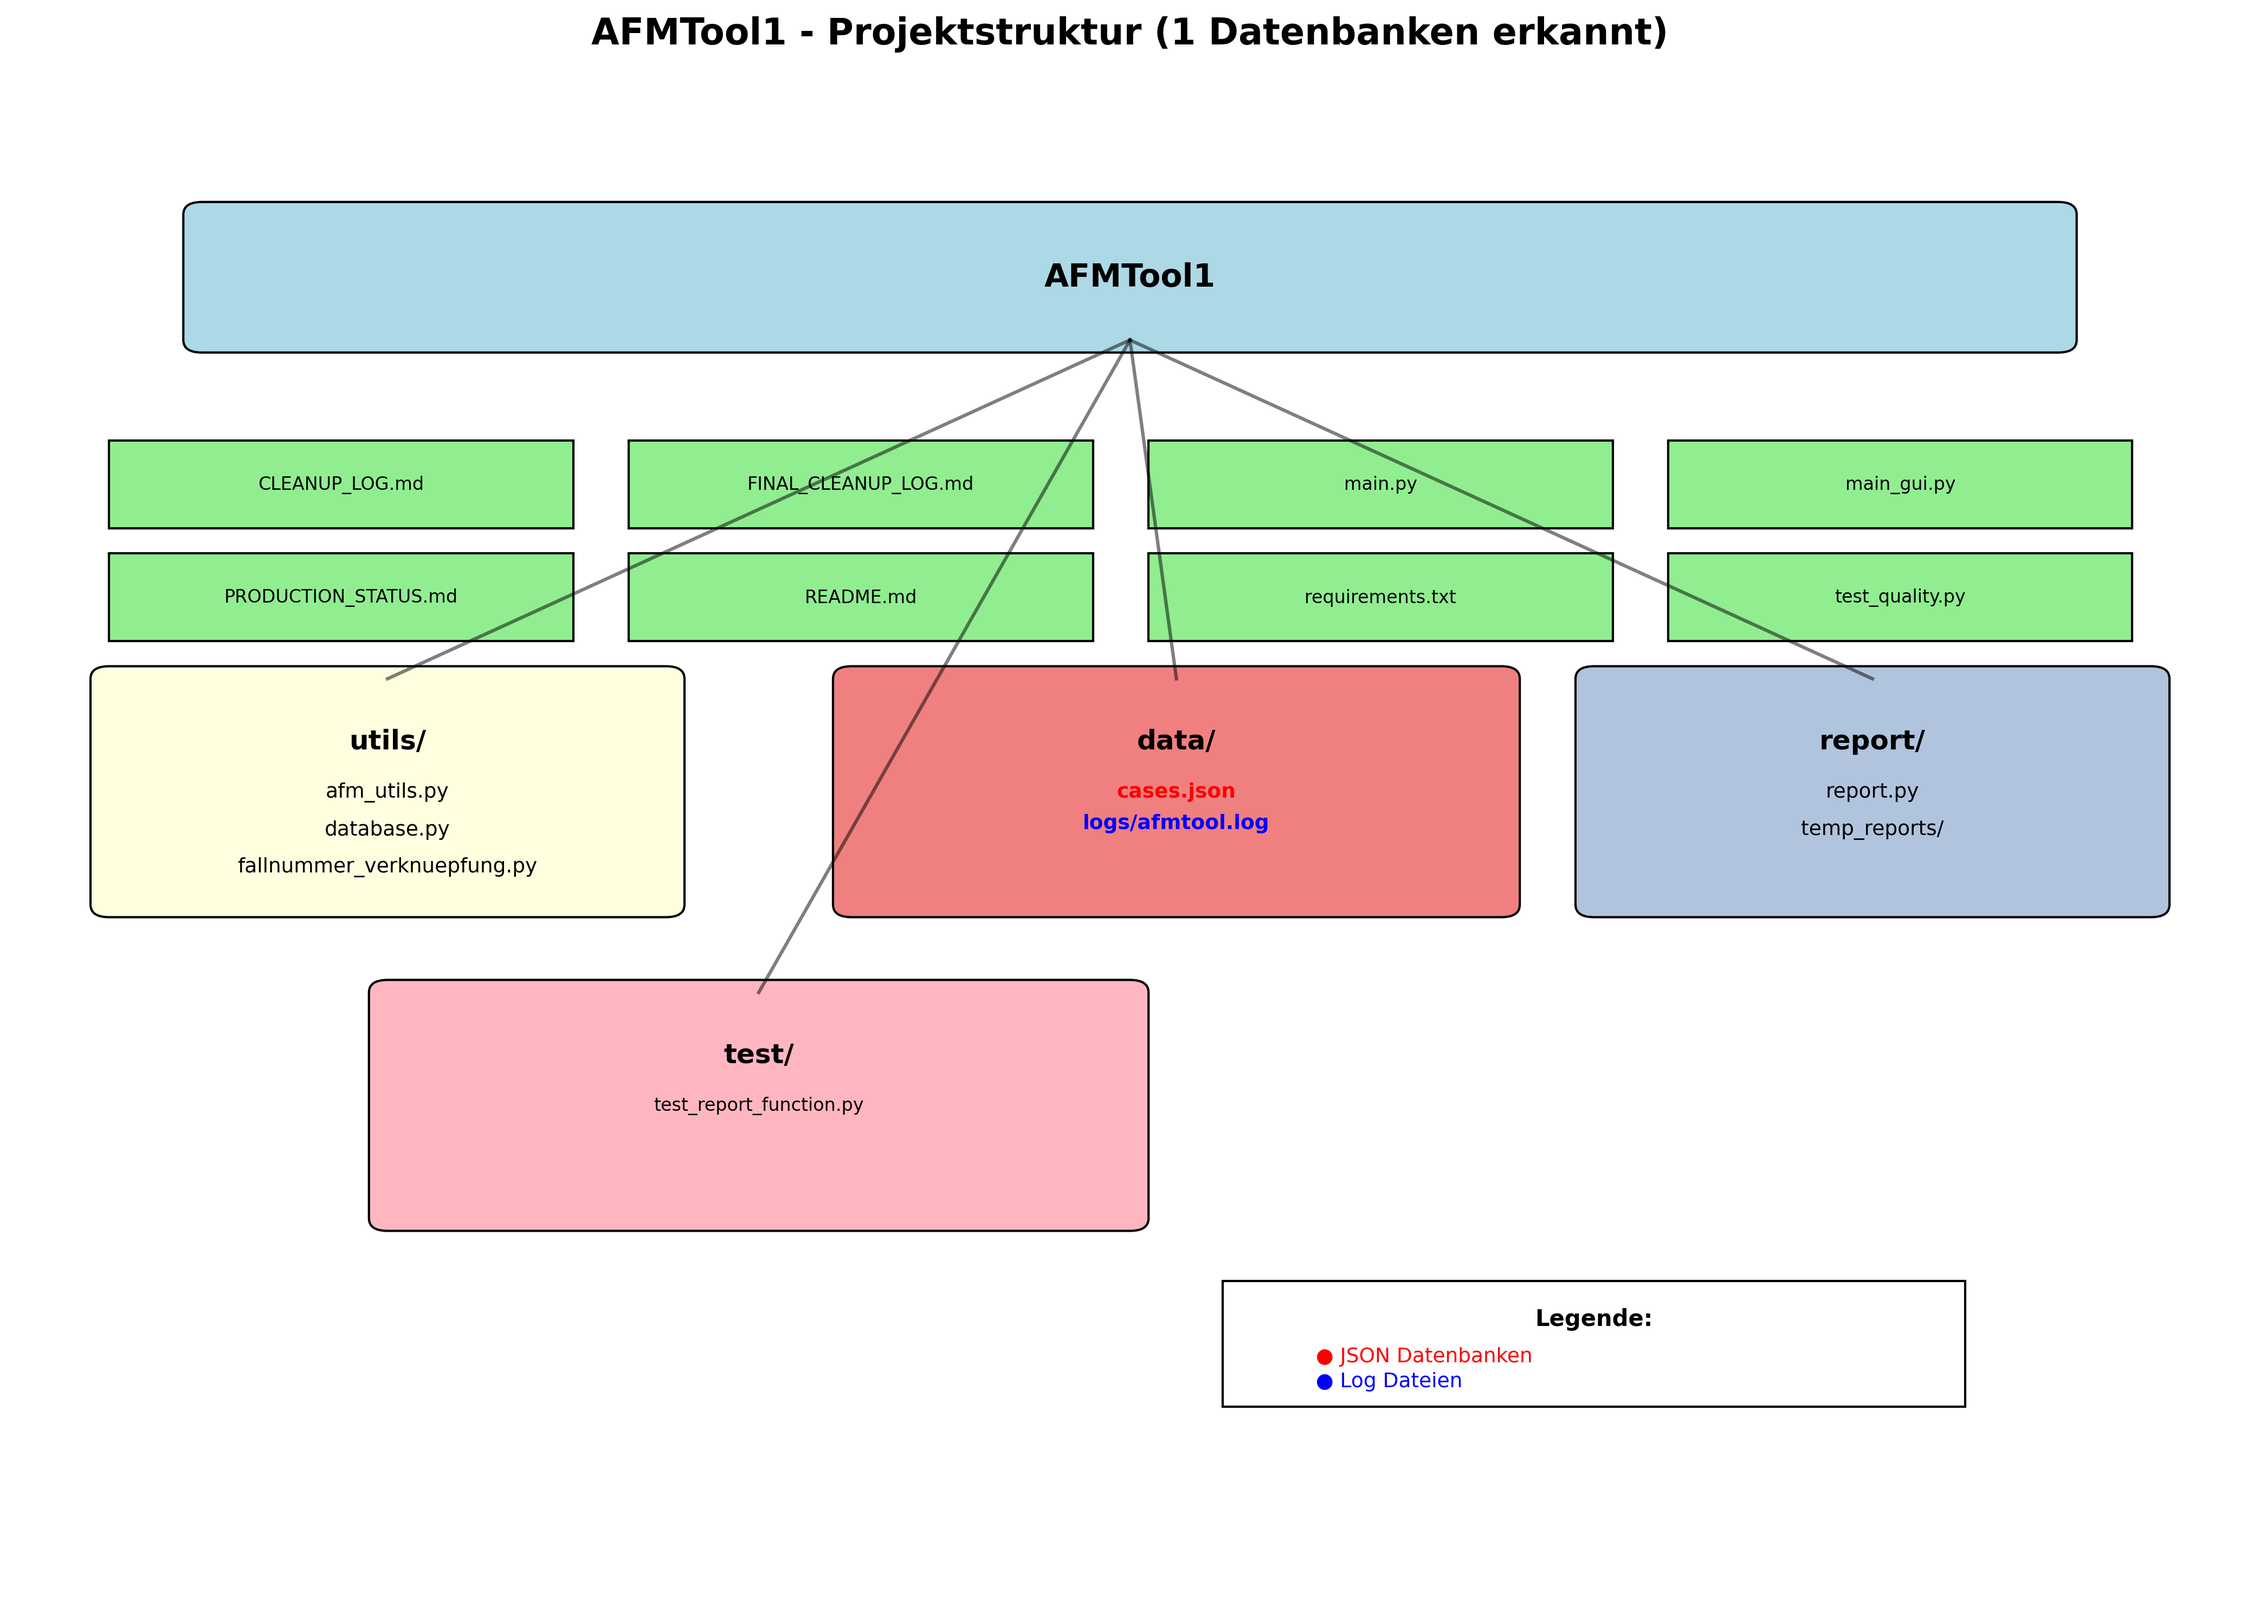
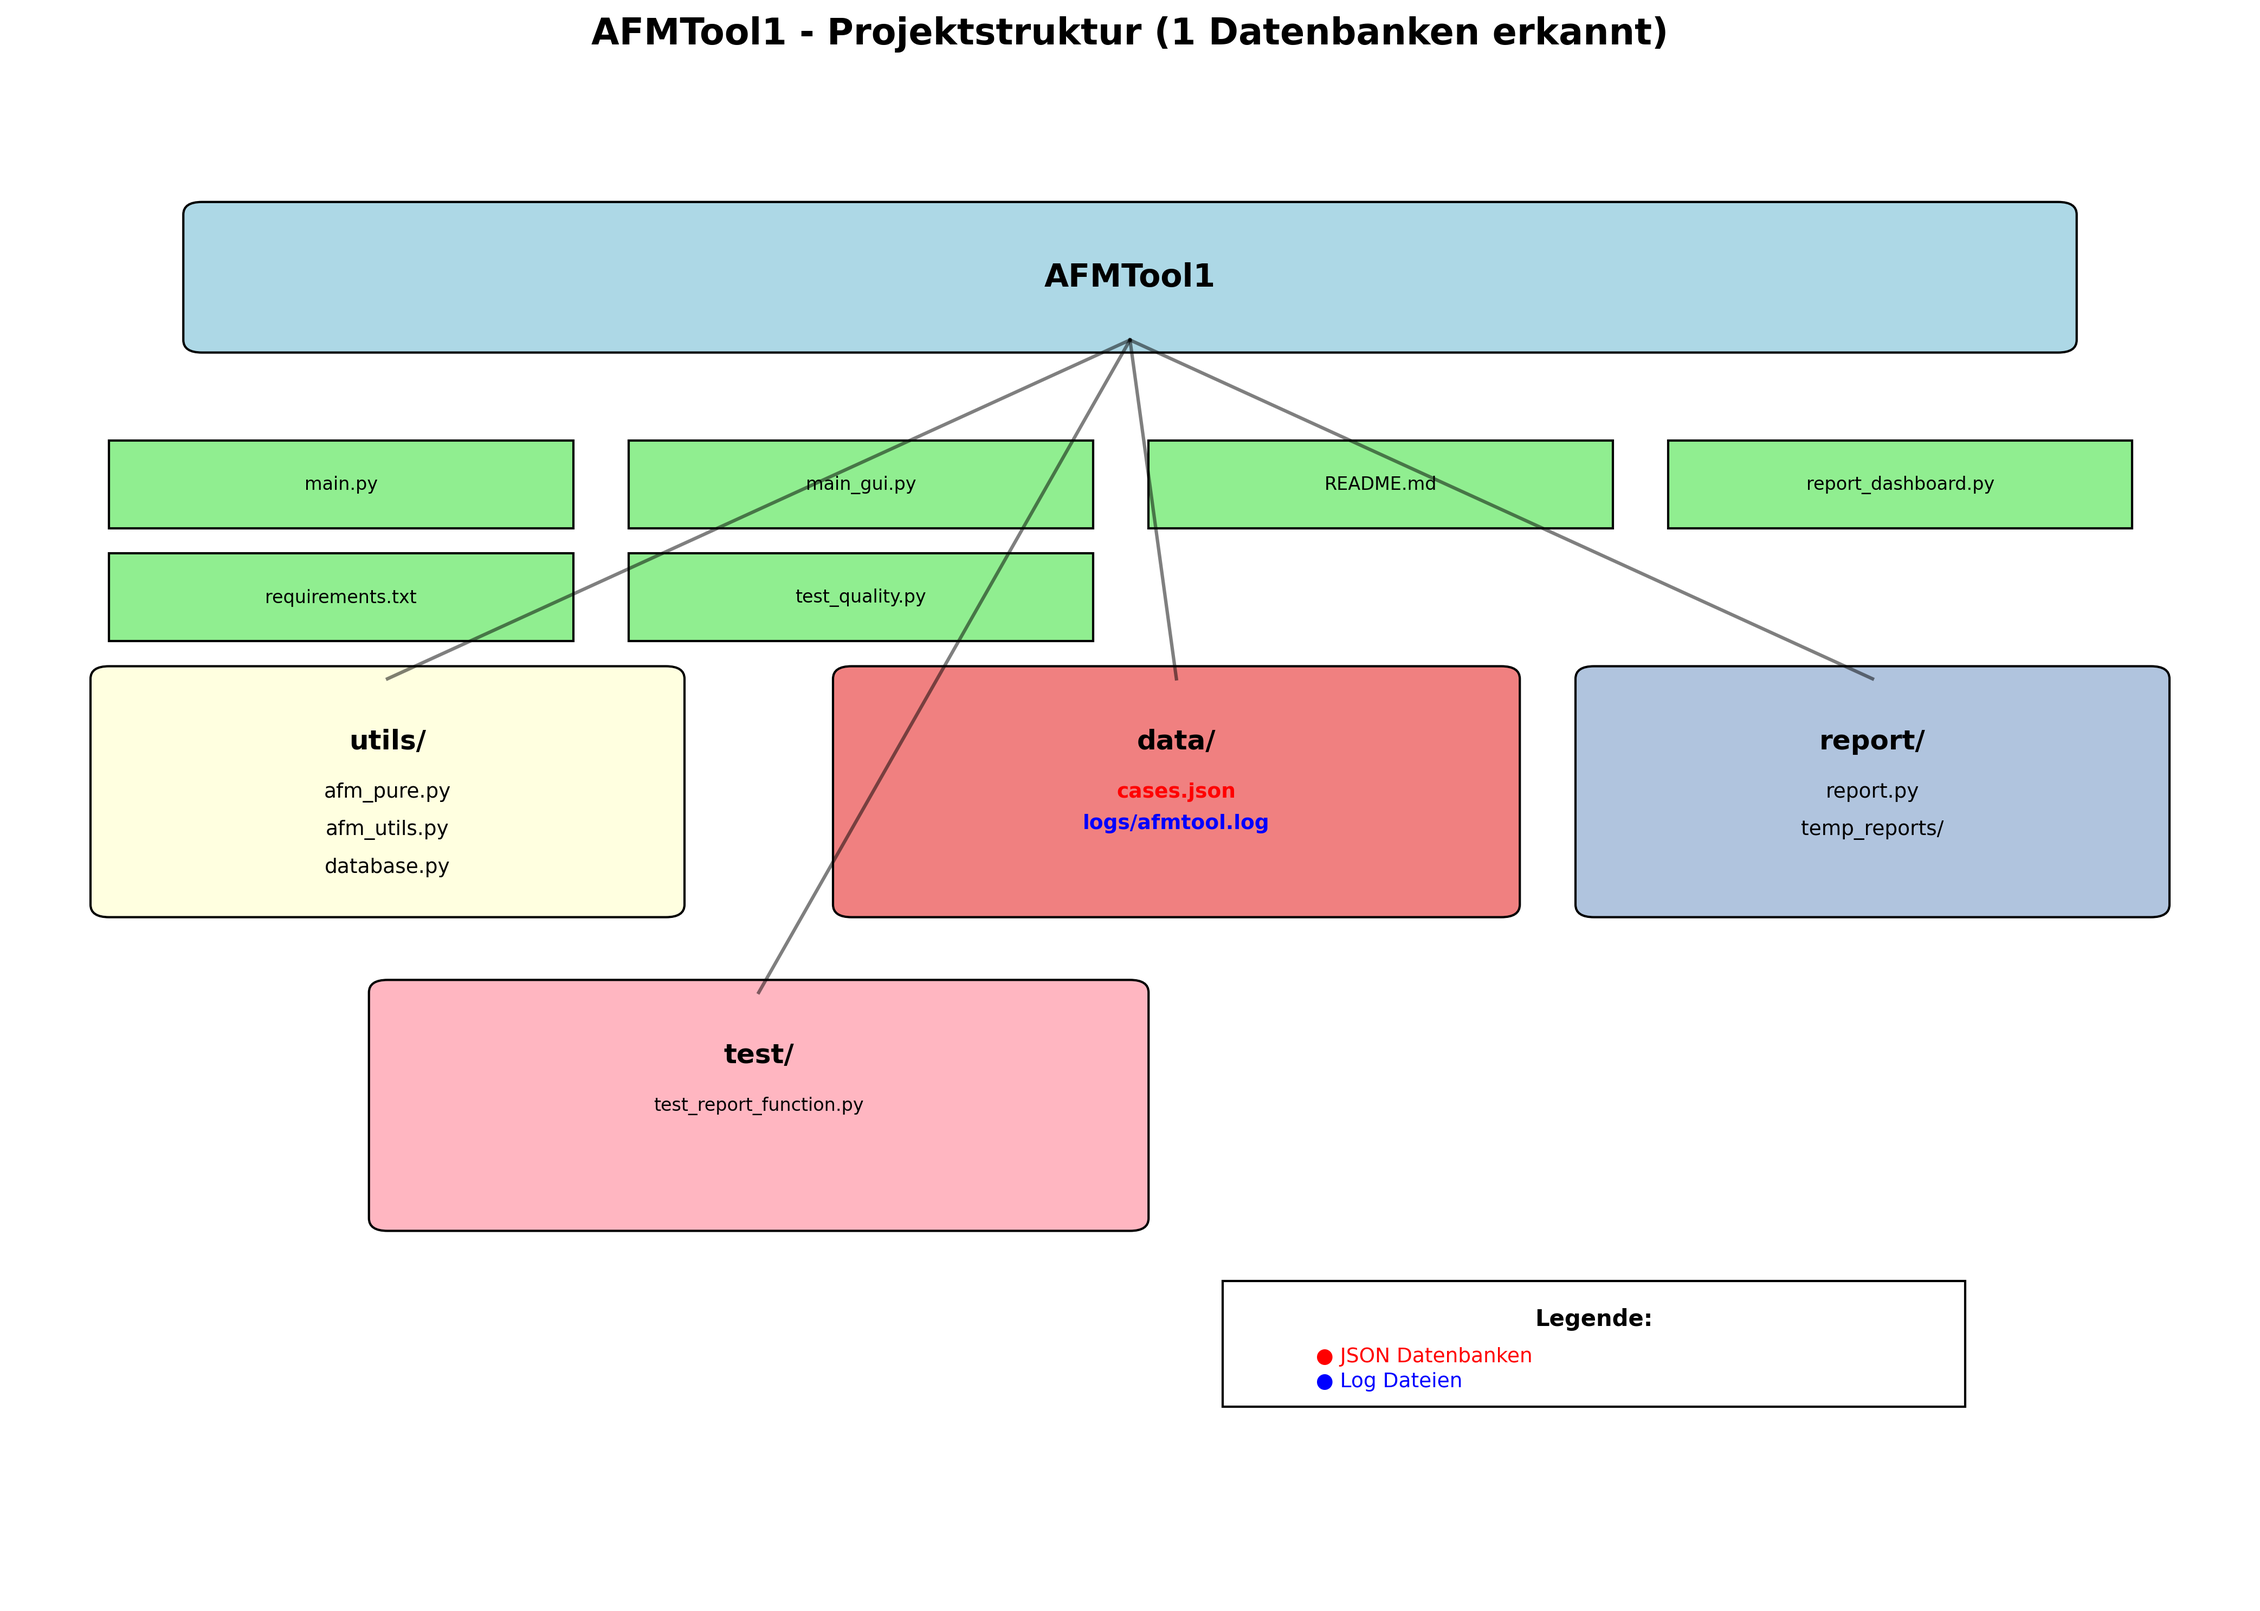
Add: Report Dashboard GUI test interface

diff --git a/report_dashboard.py b/report_dashboard.py
@@ -1,0 +1,196 @@
+#!/usr/bin/env python3
+"""
+AFMTool1 - Report Dashboard Test
+Zeigt nur das Main Window der GUI für Dashboard-Tests
+"""
+
+import sys
+import tkinter as tk
+from tkinter import ttk
+from pathlib import Path
+
+# GUI Module importieren
+try:
+    from gui.main_window import AFMToolGUI
+    GUI_AVAILABLE = True
+except ImportError as e:
+    print(f"⚠ GUI Module nicht verfügbar: {e}")
+    GUI_AVAILABLE = False
+
+class ReportDashboard:
+    def __init__(self):
+        self.root = tk.Tk()
+        self.root.title("AFMTool1 - Report Dashboard")
+        self.root.geometry("800x600")
+        
+        # Main Frame
+        main_frame = ttk.Frame(self.root, padding="10")
+        main_frame.grid(row=0, column=0, sticky=(tk.W, tk.E, tk.N, tk.S))
+        
+        # Title
+        title_label = ttk.Label(main_frame, text="AFMTool1 Report Dashboard", 
+                               font=("Arial", 16, "bold"))
+        title_label.grid(row=0, column=0, columnspan=2, pady=(0, 20))
+        
+        # Buttons Frame
+        buttons_frame = ttk.LabelFrame(main_frame, text="Report Funktionen", padding="10")
+        buttons_frame.grid(row=1, column=0, columnspan=2, sticky=(tk.W, tk.E), pady=(0, 10))
+        
+        # Test Buttons
+        ttk.Button(buttons_frame, text="📊 PDF Matrix Report", 
+                  command=self.test_pdf_report, width=25).grid(row=0, column=0, padx=5, pady=5)
+        
+        ttk.Button(buttons_frame, text="📋 TXT Case Report", 
+                  command=self.test_txt_report, width=25).grid(row=0, column=1, padx=5, pady=5)
+        
+        ttk.Button(buttons_frame, text="🎯 GUI Main Window", 
+                  command=self.open_main_gui, width=25).grid(row=1, column=0, padx=5, pady=5)
+        
+        ttk.Button(buttons_frame, text="📁 Projekt Struktur", 
+                  command=self.test_structure, width=25).grid(row=1, column=1, padx=5, pady=5)
+        
+        # Status Frame
+        status_frame = ttk.LabelFrame(main_frame, text="Status", padding="10")
+        status_frame.grid(row=2, column=0, columnspan=2, sticky=(tk.W, tk.E, tk.N, tk.S), pady=(10, 0))
+        
+        # Text widget für Status
+        self.status_text = tk.Text(status_frame, height=15, width=80)
+        scrollbar = ttk.Scrollbar(status_frame, orient="vertical", command=self.status_text.yview)
+        self.status_text.configure(yscrollcommand=scrollbar.set)
+        
+        self.status_text.grid(row=0, column=0, sticky=(tk.W, tk.E, tk.N, tk.S))
+        scrollbar.grid(row=0, column=1, sticky=(tk.N, tk.S))
+        
+        # Grid weights
+        self.root.columnconfigure(0, weight=1)
+        self.root.rowconfigure(0, weight=1)
+        main_frame.columnconfigure(0, weight=1)
+        main_frame.rowconfigure(2, weight=1)
+        status_frame.columnconfigure(0, weight=1)
+        status_frame.rowconfigure(0, weight=1)
+        
+        # Initial Status
+        self.log("🚀 AFMTool1 Report Dashboard gestartet")
+        self.log(f"📂 Arbeitsverzeichnis: {Path.cwd()}")
+        if GUI_AVAILABLE:
+            self.log("✅ GUI Module verfügbar")
+        else:
+            self.log("❌ GUI Module nicht verfügbar")
+    
+    def log(self, message):
+        """Nachricht im Status-Bereich anzeigen"""
+        self.status_text.insert(tk.END, f"{message}\n")
+        self.status_text.see(tk.END)
+        self.root.update()
+    
+    def test_pdf_report(self):
+        """PDF Report testen"""
+        self.log("📊 Teste PDF Matrix Report...")
+        try:
+            from data.report.report import AFMReporter
+            reporter = AFMReporter()
+            
+            # Datenbank Übersicht
+            overview = reporter.get_database_overview()
+            self.log(f"   Datenbanken gefunden: {len(overview)}")
+            
+            # PDF generieren
+            pdf_path = reporter.generate_pdf_report()
+            self.log(f"✅ PDF Report erstellt: {pdf_path}")
+            
+        except Exception as e:
+            self.log(f"❌ Fehler bei PDF Report: {e}")
+    
+    def test_txt_report(self):
+        """TXT Report testen"""
+        self.log("📋 Teste TXT Case Report...")
+        try:
+            from data.report.case_report import CaseReporter
+            reporter = CaseReporter()
+            
+            # Cases laden
+            cases = reporter.load_cases()
+            self.log(f"   Cases geladen: {len(cases)}")
+            
+            # TXT Report generieren
+            txt_path = reporter.generate_case_list()
+            if txt_path:
+                self.log(f"✅ TXT Report erstellt: {txt_path}")
+            else:
+                self.log("❌ TXT Report konnte nicht erstellt werden")
+                
+        except Exception as e:
+            self.log(f"❌ Fehler bei TXT Report: {e}")
+    
+    def open_main_gui(self):
+        """Haupt-GUI öffnen"""
+        self.log("🎯 Öffne Haupt-GUI...")
+        if not GUI_AVAILABLE:
+            self.log("❌ GUI Module nicht verfügbar")
+            return
+            
+        try:
+            # Neues Fenster für Haupt-GUI
+            gui_window = tk.Toplevel(self.root)
+            gui_window.title("AFMTool1 - Haupt GUI")
+            gui_window.geometry("900x700")
+            
+            # Haupt-GUI initialisieren (ohne mainloop)
+            app = AFMToolGUI()
+            # GUI in das neue Fenster einbetten
+            app.root = gui_window
+            app.setup_gui()
+            
+            self.log("✅ Haupt-GUI geöffnet")
+            
+        except Exception as e:
+            self.log(f"❌ Fehler beim Öffnen der Haupt-GUI: {e}")
+    
+    def test_structure(self):
+        """Projekt-Struktur anzeigen"""
+        self.log("📁 Analysiere Projekt-Struktur...")
+        try:
+            project_root = Path.cwd()
+            
+            # Wichtige Verzeichnisse
+            directories = ["gui", "utils", "data", "test", ".github"]
+            for dir_name in directories:
+                dir_path = project_root / dir_name
+                if dir_path.exists():
+                    files = list(dir_path.glob("*.py"))
+                    self.log(f"   📂 {dir_name}/: {len(files)} Python-Dateien")
+                else:
+                    self.log(f"   ❌ {dir_name}/: Nicht gefunden")
+            
+            # Haupt-Dateien
+            main_files = ["main.py", "main_gui.py", "requirements.txt", "README.md"]
+            for file_name in main_files:
+                file_path = project_root / file_name
+                if file_path.exists():
+                    size = file_path.stat().st_size
+                    self.log(f"   📄 {file_name}: {size} Bytes")
+                else:
+                    self.log(f"   ❌ {file_name}: Nicht gefunden")
+            
+            self.log("✅ Struktur-Analyse abgeschlossen")
+            
+        except Exception as e:
+            self.log(f"❌ Fehler bei Struktur-Analyse: {e}")
+    
+    def run(self):
+        """Dashboard starten"""
+        self.root.mainloop()
+
+def main():
+    """Dashboard-Anwendung starten"""
+    print("🚀 AFMTool1 Report Dashboard wird gestartet...")
+    
+    try:
+        dashboard = ReportDashboard()
+        dashboard.run()
+    except Exception as e:
+        print(f"❌ Fehler beim Starten des Dashboards: {e}")
+        sys.exit(1)
+
+if __name__ == "__main__":
+    main()
